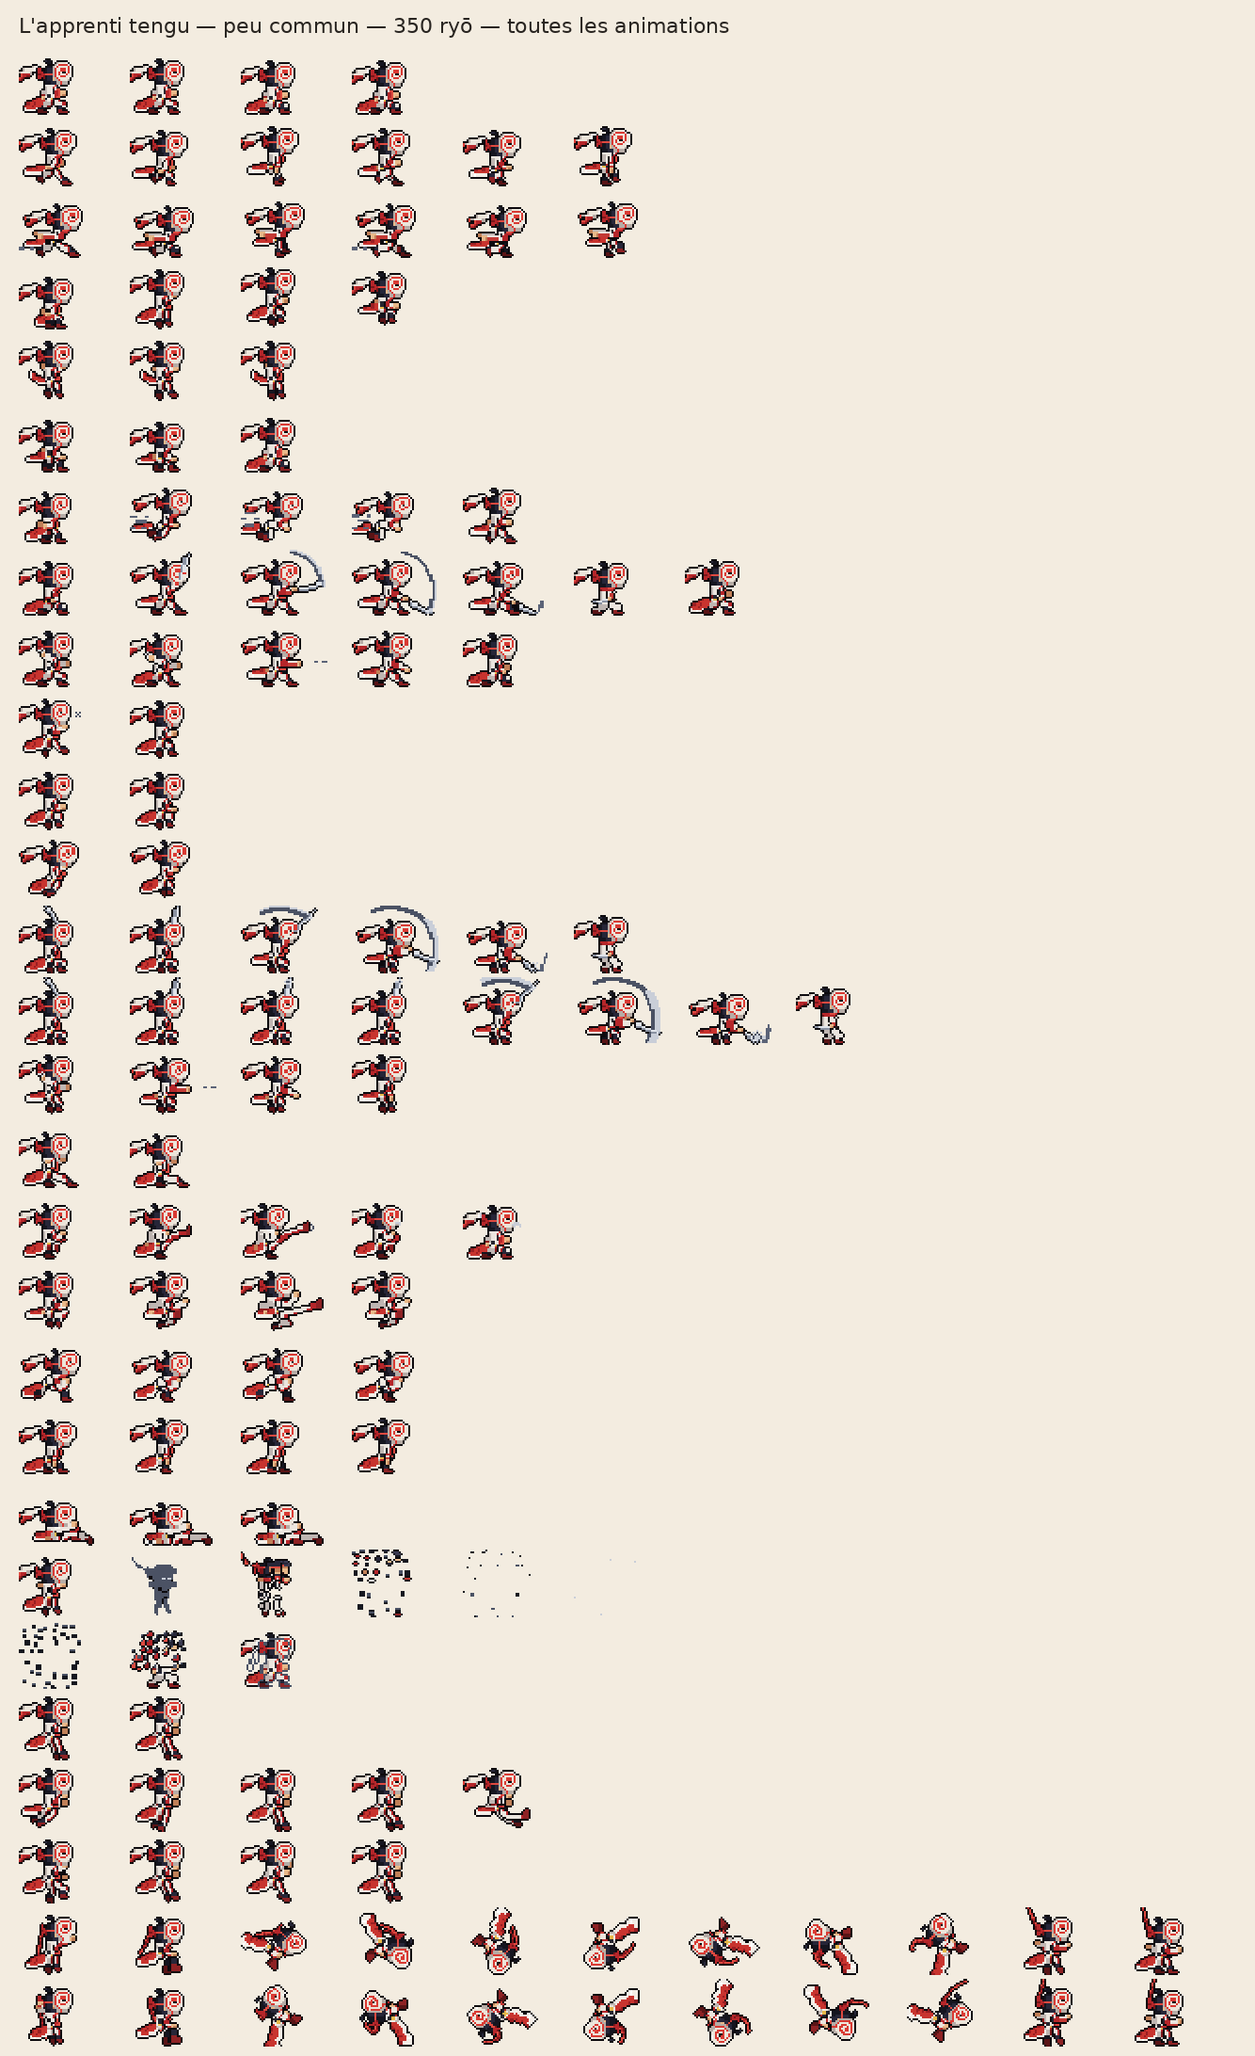
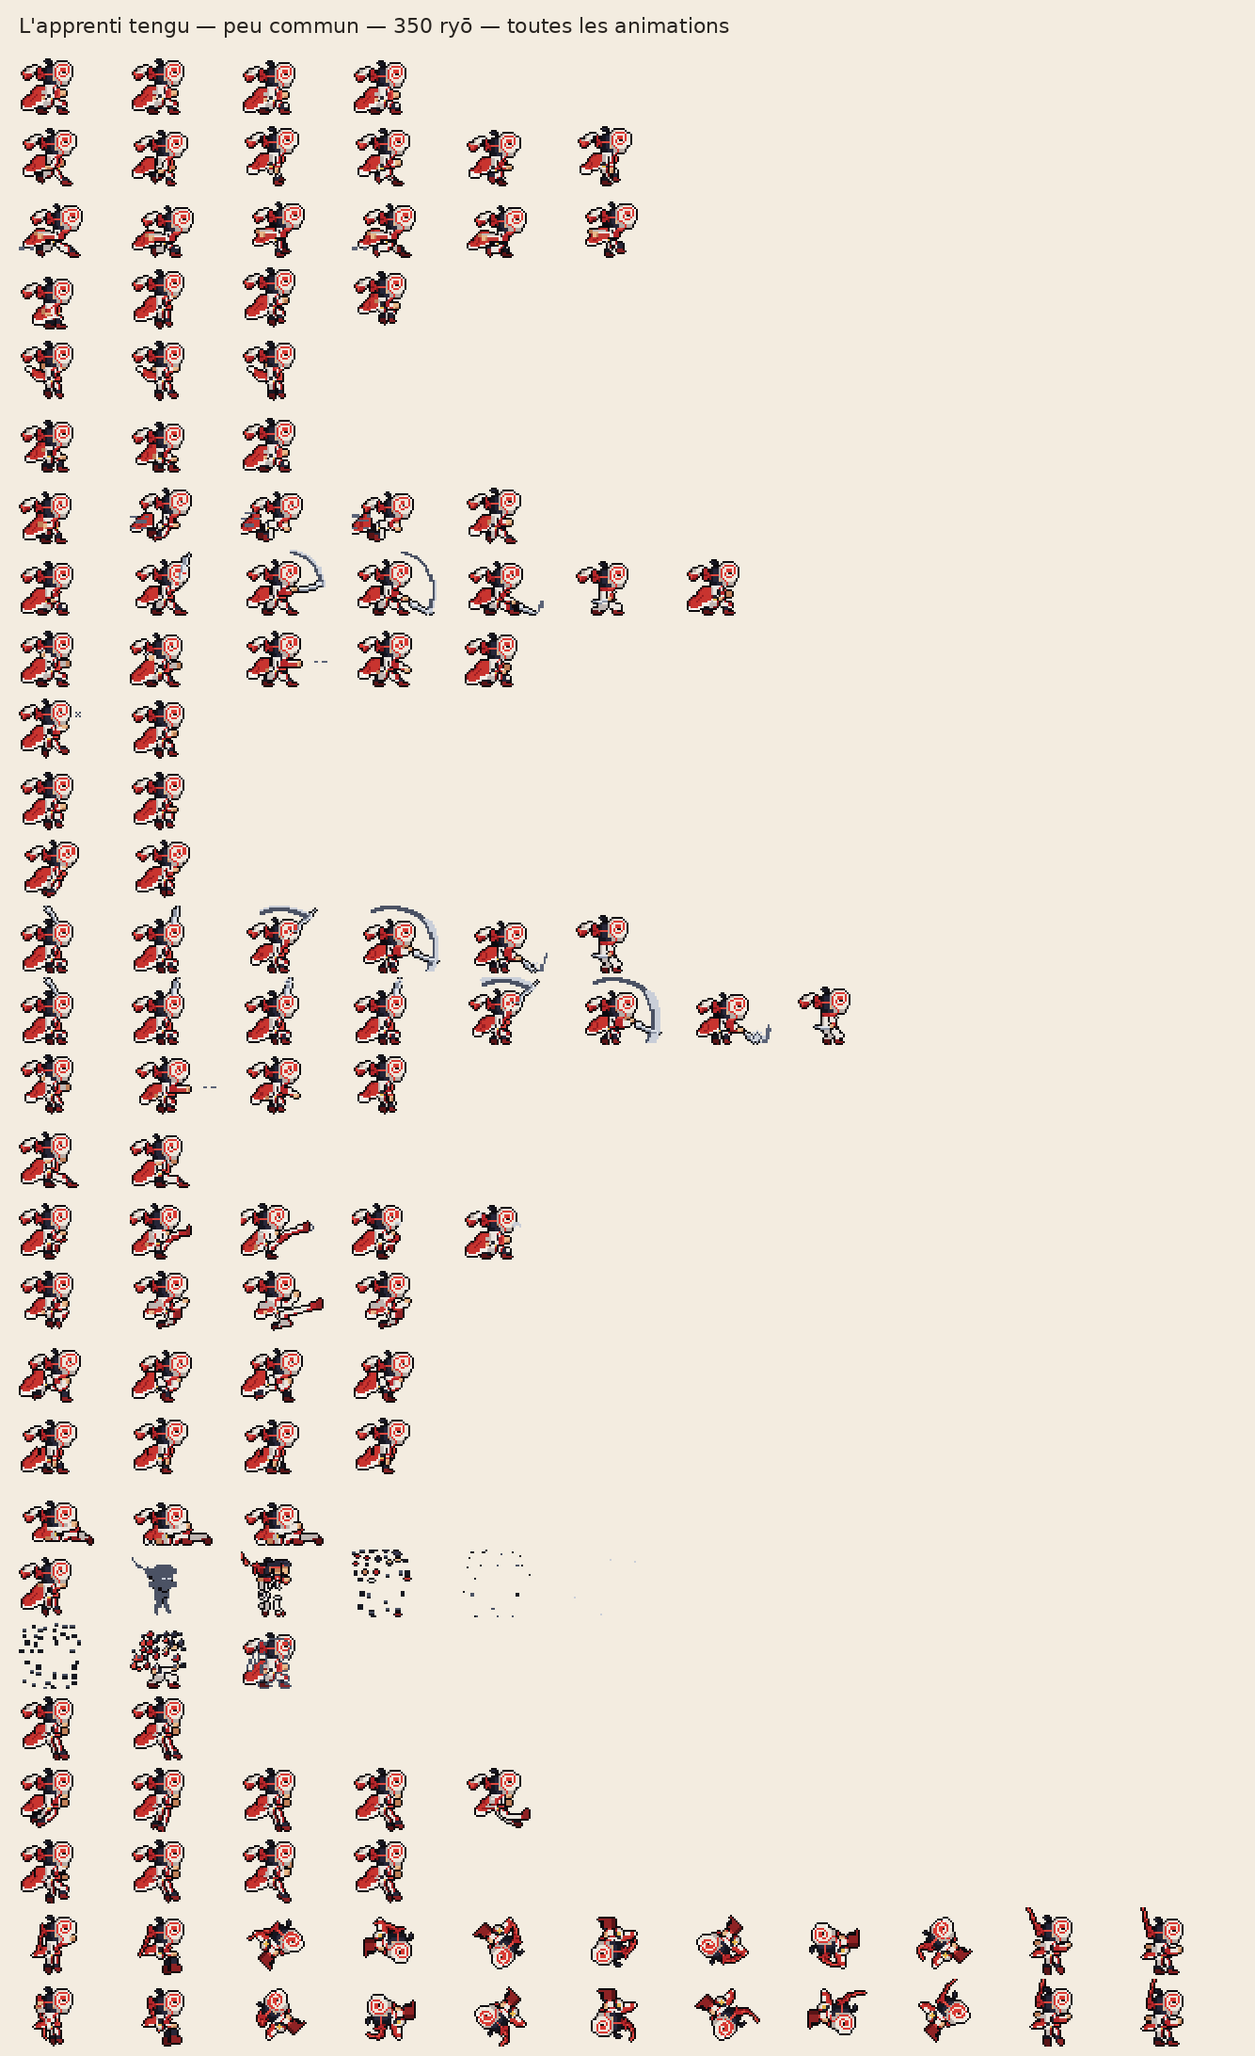
Apprenti tengu : manteau-cape plus haut et plus large au dos, rubans plus courts
Demandes de Raph : le pan du manteau part maintenant du milieu du dos (on
croyait qu'il sortait des jambes), large contre le dos, et s'arrête
au-dessus des pieds ; en course il reste près du dos et tombe au lieu de
traîner à l'horizontale (on y devinait une queue) ; pendant les saltos il se
ramasse. Les deux rubans derrière la tête sont raccourcis de trois pixels.

Claude-Session: https://claude.ai/code/session_01A2iwx41GJ1yT1ZEu9VhwRg

diff --git a/docs/carte-mentale/index.html b/docs/carte-mentale/index.html
@@ -270,7 +270,7 @@ const BRANCHES = [
     keys: ['2 dégâts, recul 170 px/s', '0,35 s avant d\'en relancer un', 'Portée équivalente au sabre'],
     files: ['src/game/fall.js', 'tools/kage_forge/rig.py'], see: ['ennemi-chute'] },
   { id: 'kage-skins', t: 'Skins de KAGE', s: 'encours', d: 'Encre, le paysan, l’apprenti tengu, le Samouraï déchu, le pêcheur, Lumière d’or ; cinq autres à reprendre un par un',
-    txt: "Un skin = une palette par slots (même animation, même boîte de collision, rien ne change dans le jeu) et des accessoires, posés pose par pose : sur la tête (grand sugegasa tressé, dessiné à la main), dans le dos (le mino de feuilles et de paille du voyageur, qui suit le bord du dos, s'évase jusqu'aux chevilles et s'effiloche ; le tonnelet doré, le panier, le bambou et le manche d'outil du paysan), sur le corps (cordon doré en pointillés et boucle de ceinture, pan de tunique, pantalon rapiécé, kimono semé de feuilles). Les pans du bandeau sont rangés (le voyageur garde un ruban qui flotte). Chaque skin a sa planche d'animation complète (la forge exporte ses accessoires sur un calque d'index, kage_acc_<skin>_index.png, fondu par le jeu sur la planche recolorée). Planches de Raph (14 novembre 2026) : après un premier essai trop rapide des dix skins entourés, on reprend un par un ; faits : le voyageur (100 ryō, retiré du jeu le 16 novembre 2026 à la demande de Raph : sa planche reste dans docs/kage/skins/) et le paysan des rizières (100 ryō) ; le vagabond (50 ryō) est retiré du jeu (14 novembre 2026) ; Lumière d'or (légendaire, 600 ryō, 15 novembre 2026) : ninja bleu nuit, bandeau d'or et ses pans en flammes, étoffe dorée sur l'épaule, cordon et pans d'or à la ceinture, grande auréole à croix de lumière (sans contour) ; sabre à lame d'or et poignée de cuir, arc du coup d'or, shurikens dorés (projectileColors) ; en jeu (src/game/aura.js), un orbe doré qui flotte devant lui, deux volutes de lumière autour des jambes, des étincelles ; une légère traînée d'or derrière le coup d'épée (les images précédentes de la lame) des silhouettes dorées derrière le dash , trois reflets et un peu de poussière d'or étincelante derrière chaque shuriken (champ trail, Shurikens.dust, maskSheet dans sprites.js) ; le Samouraï déchu (rare, 450 ryō, 16 novembre 2026) : kabuto laqué à la bombe haute, cornes d'or en croissant et cimier rouge, bande rouge et ses deux pans au vent ; épaulière laquée bordée d'or, au haut carré, resserrée sur l'épaule (elle ne dépasse plus que d'un pixel : Raph la confondait avec la cape) ; cape rouge en lambeaux, dessinée à la main pour chaque vent (lu sur les pans du bandeau de la pose) : au repos plaquée dans le dos des épaules aux genoux, trois pixels au plus derrière l'épaule, angles nets, une entaille sur le côté, le bas en pointes ; en course elle vole haut derrière les épaules ; en chute elle se soulève ; col d'or en V, ceinture à plaques d'or ; tassette avant bordée d'or en U, tassette arrière clouée d'or ; hakama sombre jusqu'à la jambe levée d'un coup de pied, chaussures à bande rouille ; le bras arrière rapproché du corps d'un pixel (demandes de Raph) ; sa barre de vie passe au-dessus des cornes (champ barLift). Le même jour : un calque d'accessoires sait effacer (marque ERASE, index 255 : les pans rangés, le bras déplacé) ; jusque-là, ce qu'un accessoire retirait restait visible en jeu (les pans du voyageur, du paysan et de Lumière d'or) ; et en arène, le ninja porte enfin le skin de l'aventure en cours. Le pêcheur (épique, 500 ryō, 16 novembre 2026) : sugegasa à bande de tressage gris-bleu, pan bleu sous le bord, tenue bleu nuit semée d'éclats dorés, corde tressée claire en bandoulière, une canne fine rangée dans le dos, qui dépasse au-dessus du chapeau, un petit fil pendu à sa pointe (elle quitte le dos quand il la prend pour frapper), un filet rond sur le dos tenu à la hanche, qui lévite avec la vitesse (un peu en course ; en sprint et en dash il monte, part en arrière, penche et laisse trois traits de vitesse ; plus petit pendant les saltos), une canne à pêche en bambou à la place du sabre (nœuds, poignée de liège, scion, ligne et flotteur rouge et blanc ; l'arc du coup devient une ligne d'eau), des micro-poissons en guise de shurikens (agrandis ×1,4 le 17 novembre 2026 ; planche kage_fish, cases de 16 px, tournés dans le sens du vol, plantés la tête la première, des micro-gouttelettes d'eau derrière eux ; un petit poisson dans la main au lancer), toiles de paille aux chevilles, marque dorée sur le masque. Les pans du bandeau qui remontent derrière la tête (chute, glissade murale) sont désormais rangés aussi (ribbon : paysan, Lumière d'or). L'apprenti tengu (n° 13, peu commun, 350 ryō, 17 novembre 2026) : masque blanc lisse à œil unique, une spirale rouge d'un pixel qui part de l'œil, s'enroule vers l'extérieur et finit dans le bord bas du masque (choisi par Raph le 17 novembre 2026 parmi six idées, docs/kage/skins/tengu_masques.png, après l'abandon du masque de renard), mèche nouée, rubans blanc et rouge effilés au vent, boucle dorée à la ceinture, veste blanche à la poitrine rouge, cordelette en damier, pantalon blanc à bande rouge, tibias sombres, long pan du manteau rouge bordé de blanc, qui fait cape et suit le vent, son bout raccourci d'un pixel pour ne plus traîner. Les cinq autres (ninja blanc, écarlate, Ombre pourpre, Souffle de l'hiver, Renard blanc) attendent en brouillon (tools/kage_forge/skins_brouillon/), hors du jeu. Nouveaux slots : gear (b B i) et gear2 (j J).",
+    txt: "Un skin = une palette par slots (même animation, même boîte de collision, rien ne change dans le jeu) et des accessoires, posés pose par pose : sur la tête (grand sugegasa tressé, dessiné à la main), dans le dos (le mino de feuilles et de paille du voyageur, qui suit le bord du dos, s'évase jusqu'aux chevilles et s'effiloche ; le tonnelet doré, le panier, le bambou et le manche d'outil du paysan), sur le corps (cordon doré en pointillés et boucle de ceinture, pan de tunique, pantalon rapiécé, kimono semé de feuilles). Les pans du bandeau sont rangés (le voyageur garde un ruban qui flotte). Chaque skin a sa planche d'animation complète (la forge exporte ses accessoires sur un calque d'index, kage_acc_<skin>_index.png, fondu par le jeu sur la planche recolorée). Planches de Raph (14 novembre 2026) : après un premier essai trop rapide des dix skins entourés, on reprend un par un ; faits : le voyageur (100 ryō, retiré du jeu le 16 novembre 2026 à la demande de Raph : sa planche reste dans docs/kage/skins/) et le paysan des rizières (100 ryō) ; le vagabond (50 ryō) est retiré du jeu (14 novembre 2026) ; Lumière d'or (légendaire, 600 ryō, 15 novembre 2026) : ninja bleu nuit, bandeau d'or et ses pans en flammes, étoffe dorée sur l'épaule, cordon et pans d'or à la ceinture, grande auréole à croix de lumière (sans contour) ; sabre à lame d'or et poignée de cuir, arc du coup d'or, shurikens dorés (projectileColors) ; en jeu (src/game/aura.js), un orbe doré qui flotte devant lui, deux volutes de lumière autour des jambes, des étincelles ; une légère traînée d'or derrière le coup d'épée (les images précédentes de la lame) des silhouettes dorées derrière le dash , trois reflets et un peu de poussière d'or étincelante derrière chaque shuriken (champ trail, Shurikens.dust, maskSheet dans sprites.js) ; le Samouraï déchu (rare, 450 ryō, 16 novembre 2026) : kabuto laqué à la bombe haute, cornes d'or en croissant et cimier rouge, bande rouge et ses deux pans au vent ; épaulière laquée bordée d'or, au haut carré, resserrée sur l'épaule (elle ne dépasse plus que d'un pixel : Raph la confondait avec la cape) ; cape rouge en lambeaux, dessinée à la main pour chaque vent (lu sur les pans du bandeau de la pose) : au repos plaquée dans le dos des épaules aux genoux, trois pixels au plus derrière l'épaule, angles nets, une entaille sur le côté, le bas en pointes ; en course elle vole haut derrière les épaules ; en chute elle se soulève ; col d'or en V, ceinture à plaques d'or ; tassette avant bordée d'or en U, tassette arrière clouée d'or ; hakama sombre jusqu'à la jambe levée d'un coup de pied, chaussures à bande rouille ; le bras arrière rapproché du corps d'un pixel (demandes de Raph) ; sa barre de vie passe au-dessus des cornes (champ barLift). Le même jour : un calque d'accessoires sait effacer (marque ERASE, index 255 : les pans rangés, le bras déplacé) ; jusque-là, ce qu'un accessoire retirait restait visible en jeu (les pans du voyageur, du paysan et de Lumière d'or) ; et en arène, le ninja porte enfin le skin de l'aventure en cours. Le pêcheur (épique, 500 ryō, 16 novembre 2026) : sugegasa à bande de tressage gris-bleu, pan bleu sous le bord, tenue bleu nuit semée d'éclats dorés, corde tressée claire en bandoulière, une canne fine rangée dans le dos, qui dépasse au-dessus du chapeau, un petit fil pendu à sa pointe (elle quitte le dos quand il la prend pour frapper), un filet rond sur le dos tenu à la hanche, qui lévite avec la vitesse (un peu en course ; en sprint et en dash il monte, part en arrière, penche et laisse trois traits de vitesse ; plus petit pendant les saltos), une canne à pêche en bambou à la place du sabre (nœuds, poignée de liège, scion, ligne et flotteur rouge et blanc ; l'arc du coup devient une ligne d'eau), des micro-poissons en guise de shurikens (agrandis ×1,4 le 17 novembre 2026 ; planche kage_fish, cases de 16 px, tournés dans le sens du vol, plantés la tête la première, des micro-gouttelettes d'eau derrière eux ; un petit poisson dans la main au lancer), toiles de paille aux chevilles, marque dorée sur le masque. Les pans du bandeau qui remontent derrière la tête (chute, glissade murale) sont désormais rangés aussi (ribbon : paysan, Lumière d'or). L'apprenti tengu (n° 13, peu commun, 350 ryō, 17 novembre 2026) : masque blanc lisse à œil unique, une spirale rouge d'un pixel qui part de l'œil, s'enroule vers l'extérieur et finit dans le bord bas du masque (choisi par Raph le 17 novembre 2026 parmi six idées, docs/kage/skins/tengu_masques.png, après l'abandon du masque de renard), mèche nouée, rubans blanc et rouge effilés au vent, boucle dorée à la ceinture, veste blanche à la poitrine rouge, cordelette en damier, pantalon blanc à bande rouge, tibias sombres, long pan du manteau rouge bordé de blanc, qui fait cape : il part du milieu du dos, large contre le dos, s'arrête au-dessus des pieds, reste près du dos en course (sans traîner comme une queue) et se ramasse pendant les saltos ; rubans raccourcis. Les cinq autres (ninja blanc, écarlate, Ombre pourpre, Souffle de l'hiver, Renard blanc) attendent en brouillon (tools/kage_forge/skins_brouillon/), hors du jeu. Nouveaux slots : gear (b B i) et gear2 (j J).",
     keys: ['6 skins en jeu', '5 en brouillon', 'gear b B i · gear2 j J', 'effacer : index 255'],
     files: ['assets/characters/kage/skins/', 'src/engine/sprites.js', 'tools/kage_forge/accessories.py', 'tools/kage_forge/palette.py', 'tools/kage_forge/skin_design.py', 'tools/kage_forge/skin_sheets.py', 'tools/kage_forge/skins_brouillon/', 'src/game/shop.js', 'src/game/aura.js', 'docs/SKINS.md'],
     links: [['Le paysan, face à son modèle', 'docs/kage/skins/paysan_planche.png'], ['Lumière d’or, face à son modèle', 'docs/kage/skins/or_planche.png'], ['Le Samouraï déchu, face à son modèle', 'docs/kage/skins/samourai_planche.png'], ['Le pêcheur, face à son modèle', 'docs/kage/skins/pecheur_planche.png'], ['L’apprenti tengu, face à son modèle', 'docs/kage/skins/tengu_planche.png'], ['L’apprenti tengu : les six idées de masques', 'docs/kage/skins/tengu_masques.png'], ['Le pêcheur, toutes les animations', 'docs/kage/skins/planche_pecheur.png'], ['Le Samouraï déchu, toutes les animations', 'docs/kage/skins/planche_samourai.png']], see: ['sys-boutique', 'hab-marchand'] },

diff --git a/tools/kage_forge/accessories.py b/tools/kage_forge/accessories.py
@@ -1354,13 +1354,13 @@ FOX_MASK_DX, FOX_MASK_DY = 5, -1
 
 # les deux rubans du masque, qui flottent derrière la tête (rangée relative à hy : colonne, motif)
 FOX_TIES = {
+    # (raccourcis de trois pixels le 17 novembre 2026, demande de Raph)
     1: (-4, "bBi"),
-    2: (-8, "bBBBBi"),
-    3: (-11, "JbBBBBb"),
-    4: (-11, "J.GFFFb"),
-    5: (-9, "GFFf"),
-    6: (-10, "GFf"),
-    7: (-10, "Ff"),
+    2: (-6, "bBBi"),
+    3: (-8, "JbBBb"),
+    4: (-8, "JGFFb"),
+    5: (-7, "GFf"),
+    6: (-7, "Ff"),
 }
 
 
@@ -1465,29 +1465,44 @@ def haori(g):
 # de renard ») : dessiné à la main pour chaque vent (calé à droite contre le bas du dos, première rangée
 # relative à la ceinture) ; il pend au repos, file derrière lui en course, se soulève en chute
 FOX_TAIL = {
-    # (la forme validée, son bout raccourci d'un pixel et sa dernière rangée retirée le 17 novembre 2026 :
-    # il traînait un peu trop, Raph)
-    "calm": (0, [
-        ".....pPP.",
-        "...pPPPPP",
-        ".pPPpPPPQ",
-        "pPPpPPPQQ",
-        "QPPPPQQQ.",
-        "QQiQQ....",
+    # le pan part du milieu du dos (et non plus de la ceinture : on croyait qu'il sortait des jambes), large
+    # contre le dos, et s'arrête au-dessus des pieds ; en course, il reste près du dos et tombe au lieu de
+    # traîner à l'horizontale (on y devinait une queue) — demandes de Raph, 17 novembre 2026
+    "calm": (-5, [
+        "......pPPP",
+        ".....pPPPP",
+        "....pPPPPP",
+        "...pPPpPPP",
+        "..pPPpPPPP",
+        ".pPPpPPPPP",
+        "pPPpPPPPQQ",
+        "pPPPPPQQQ.",
+        "QPPPQQQ...",
+        "QQiQQ.....",
     ]),
-    "back": (-1, [
+    "back": (-5, [
         ".....pPPP",
-        ".ppPPpPPP",
-        "QPPPPPPPQ",
-        "QiQQQQQ..",
+        "....pPPPP",
+        "...pPPPPP",
+        "..pPpPPPP",
+        ".pPPpPPPP",
+        "pPPpPPPQQ",
+        "QPPPPQQ..",
+        "QiQQ.....",
     ]),
-    "up": (-4, [
-        "Q.......",
-        "iPp.....",
-        "QPPPp...",
-        ".pPPPPp.",
-        "...QPPPP",
-        "....QQQP",
+    "up": (-6, [
+        "QQ.......",
+        "QiPp.....",
+        ".QPPPp...",
+        "..pPPPPpP",
+        "...QPPPPP",
+        "....QQQPP",
+    ]),    # en boule, pendant un salto : plus ramassé (sinon une grande aile rouge alourdissait la boule)
+    "flip": (-3, [
+        "....pPP",
+        "..pPPPP",
+        ".pPPPPQ",
+        "QPPQQ..",
     ]),
 }
 
@@ -1505,6 +1520,9 @@ def fox_tail(g):
         return g, False
     xs = min(edges)
     wind = _wind(g, hx, hy)
+    # un salto : la forge trace ses pans après, la pose n'en a pas (comme pour le filet du pêcheur)
+    if not any(g[y, x] in "fFG" for y in range(CH) for x in range(max(0, hx + 2))):
+        wind = "flip"
     dy0, rows = FOX_TAIL[wind]
     g = g.copy()
     mask = np.zeros(g.shape, bool)

diff --git a/docs/SKINS.md b/docs/SKINS.md
@@ -14,7 +14,7 @@ Tout ce qu'il faut savoir pour **créer un skin** du ninja de *The Ninja Adventu
 |---|---|---|---|---|---|
 | `encre` | Encre | origine | — | — | le skin d'origine, toujours possédé |
 | `paysan` | Paysan des rizières | commun | 100 | `notails`, `pants`, `dots`, `farmer`, `sash`, `kasa` | kimono vert, tonnelet et panier sur le dos, bambou |
-| `tengu` | L'apprenti tengu | peu commun | 350 | `fox_tail`, `haori`, `rope`, `fox_mask` | masque blanc à œil unique et spirale rouge qui finit dans le bord du masque, mèche nouée, rubans blanc et rouge au vent ; veste blanche au devant rouge, cordelette en damier, pantalon blanc à bande rouge, boucle dorée ; long pan du manteau rouge bordé de blanc, qui fait cape et suit le vent (`fox_tail`), son bout raccourci pour ne plus traîner |
+| `tengu` | L'apprenti tengu | peu commun | 350 | `fox_tail`, `haori`, `rope`, `fox_mask` | masque blanc à œil unique et spirale rouge qui finit dans le bord du masque, mèche nouée, rubans blanc et rouge au vent ; veste blanche au devant rouge, cordelette en damier, pantalon blanc à bande rouge, boucle dorée ; long pan du manteau rouge bordé de blanc, qui fait cape (`fox_tail`) : il part du milieu du dos, large contre le dos, reste près du dos en course et se ramasse pendant les saltos ; rubans courts |
 | `samourai` | Samouraï déchu | rare | 450 | `arm_in`, `hakama`, `kusazuri`, `rag`, `sode`, `samurai_trim`, `kabuto` | kabuto aux cornes d'or en croissant et cimier rouge, pans au vent, épaulière carrée resserrée sur l'épaule, cape en lambeaux (plaquée au repos, au vent en course), tassettes bordées d'or ; bras arrière rapproché du corps ; `barLift: 4` (barre de vie au-dessus des cornes) |
 | `pecheur` | Le pêcheur | épique | 500 | `round_net`, `ribbon`, `rope`, `specks`, `wraps`, `mask_mark`, `rod`, `back_rod`, `kasa_peche` | sugegasa tressé de bleu, pan bleu, une canne fine rangée dans le dos (un fil pend de sa pointe ; elle quitte le dos quand il frappe), filet rond sur le dos qui lévite avec la vitesse (course, sprint), corde tressée, éclats dorés ; **canne à pêche** en bambou à la place du sabre (ligne et flotteur, arc du coup en ligne d'eau) ; **micro-poissons** en guise de shurikens (`projectile: "fish"`, gouttes d'eau : `projectileDust: "water"`) |
 | `or` | Lumière d'or | légendaire | 600 | `flametails`, `halo`, `hipcloth`, `mantlet`, `sash`, `apron` | `aura: 'gold'` (éclat : `src/game/aura.js`), shurikens dorés (`projectileColors`), traînées d'or (`trail`), poussière d'or derrière les shurikens (`goldDust`, `src/game/shuriken.js`) |
